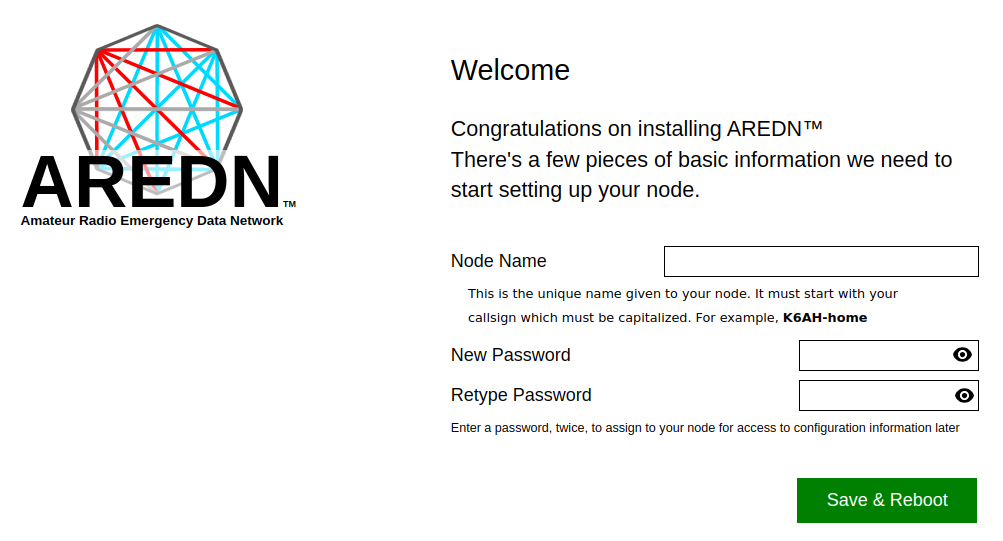
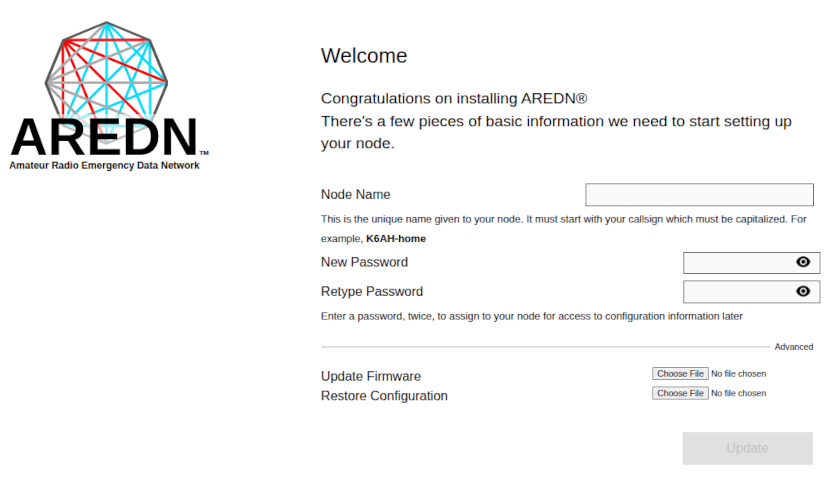
update firstboot display

diff --git a/arednGettingStarted/firstboot_setup.rst b/arednGettingStarted/firstboot_setup.rst
@@ -18,6 +18,15 @@ Password
 
 After providing the new node name and password, click the *Save & Reboot* button. Once your node reboots it will have an IP address in the 10.x.x.x range, so you should set your computer to use `DHCP <https://en.wikipedia.org/wiki/Dynamic_Host_Configuration_Protocol>`_ to obtain a new IP address from your node. You may need to disconnect/reconnect or disable/enable your computer's Ethernet interface so that it connects using the new IP address.
 
+Advanced Options
+----------------
+
+The firstboot display also has **Advanced Options** which you can view by clicking the *Advanced Options* label. These are helpful when you have an existing node that has been reset to *firstboot* state, as described under the next heading in this document.
+
+- If you previously saved your node's settings in a *backup* file, you can apply those saved settings by choosing the *backup* file and clicking the **Restore** button.
+
+- If you want to update your node to a specific version of firmware, you can choose that firmware file and click the **Update** button.
+
 Resetting a node to *firstboot* state
 -------------------------------------
 
